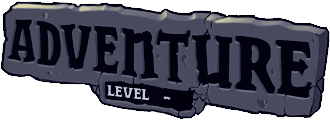
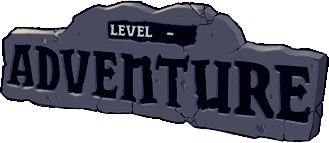
Reversed Forced 3D, Updated Adventure Button

diff --git a/Lawn/Widget/GameSelector.cpp b/Lawn/Widget/GameSelector.cpp
@@ -559,21 +559,6 @@ void GameSelector::Draw(Graphics* g)
 
 	}
 
-	int aLeftIdx = aSelectorReanim->FindTrackIndex("SelectorScreen_BG_Left");
-	ReanimatorTransform aTransformLeft;
-	aSelectorReanim->GetCurrentTransform(aLeftIdx, &aTransformLeft);
-	if (mHasTrophy)
-	{
-		if (mApp->EarnedGoldTrophy())
-			TodDrawImageCelF(g, Sexy::IMAGE_SUNFLOWER_TROPHY, aTransformLeft.mTransX + 10.0f, aTransformLeft.mTransY + 390.0f, 1, 0);
-		else
-			TodDrawImageCelF(g, Sexy::IMAGE_SUNFLOWER_TROPHY, aTransformLeft.mTransX + 10.0f, aTransformLeft.mTransY + 390.0f, 0, 0);
-		
-		TodParticleSystem* aTrophyParticle = mApp->ParticleTryToGet(mTrophyParticleID);
-		if (aTrophyParticle)
-			aTrophyParticle->Draw(g);
-	}
-
 	if(mDebugText)
 	{
 		Font* mDebugFont;
@@ -658,18 +643,35 @@ void GameSelector::DrawOverlay(Graphics* g)
 
 		g->SetColorizeImages(true);
 		g->SetColor(mAdventureButton->mColors[ButtonWidget::COLOR_BKG]);
-		TodDrawImageCelF(g, Sexy::IMAGE_SELECTORSCREEN_LEVELNUMBERS, aTransAreaX + 486.0f, aTransAreaY + 125.0f, aStage, 0);  // »æÖÆ´ó¹ØÊý
+		TodDrawImageCelF(g, Sexy::IMAGE_SELECTORSCREEN_LEVELNUMBERS, aTransAreaX + 486.0f, aTransAreaY + 47.0f, aStage, 0);  // »æÖÆ´ó¹ØÊý
 		if (aSub < 10)
 		{
-			TodDrawImageCelF(g, Sexy::IMAGE_SELECTORSCREEN_LEVELNUMBERS, aTransSubX + 504.0f, aTransSubY + 128.0f, aSub, 0);
+			TodDrawImageCelF(g, Sexy::IMAGE_SELECTORSCREEN_LEVELNUMBERS, aTransSubX + 509.0f, aTransSubY + 50.0f, aSub, 0);
 		}
 		else if (aSub == 10)
 		{
-			TodDrawImageCelF(g, Sexy::IMAGE_SELECTORSCREEN_LEVELNUMBERS, aTransSubX + 504.0f, aTransSubY + 128.0f, 1, 0);
-			TodDrawImageCelF(g, Sexy::IMAGE_SELECTORSCREEN_LEVELNUMBERS, aTransSubX + 513.0f, aTransSubY + 129.0f, 0, 0);
+			TodDrawImageCelF(g, Sexy::IMAGE_SELECTORSCREEN_LEVELNUMBERS, aTransSubX + 509.0f, aTransSubY + 50.0f, 1, 0);
+			TodDrawImageCelF(g, Sexy::IMAGE_SELECTORSCREEN_LEVELNUMBERS, aTransSubX + 518.0f, aTransSubY + 51.0f, 0, 0);
 		}
 		g->SetColorizeImages(false);
+
+
+		int aLeftIdx = aSelectorReanim->FindTrackIndex("SelectorScreen_BG_Left");
+		ReanimatorTransform aTransformLeft;
+		aSelectorReanim->GetCurrentTransform(aLeftIdx, &aTransformLeft);
+		if (mHasTrophy)
+		{
+			if (mApp->EarnedGoldTrophy())
+				TodDrawImageCelF(g, Sexy::IMAGE_SUNFLOWER_TROPHY, aTransformLeft.mTransX + 12.0f, aTransformLeft.mTransY + 345.0f, 1, 0);
+			else
+				TodDrawImageCelF(g, Sexy::IMAGE_SUNFLOWER_TROPHY, aTransformLeft.mTransX + 12.0f, aTransformLeft.mTransY + 345.0f, 0, 0);
+
+			TodParticleSystem* aTrophyParticle = mApp->ParticleTryToGet(mTrophyParticleID);
+			if (aTrophyParticle)
+				aTrophyParticle->Draw(g);
+		}
 	}
+
 
 	if (mZenGardenButton->mVisible && mApp->mZenGarden->PlantsNeedWater())
 	{

diff --git a/LawnApp.cpp b/LawnApp.cpp
@@ -1191,8 +1191,8 @@ bool LawnApp::KillNewOptionsDialog()
 		return false;
 
 	bool wantWindowed = !aNewOptionsDialog->mFullscreenCheckbox->IsChecked();
-	//bool want3D = aNewOptionsDialog->mHardwareAccelerationCheckbox->IsChecked();
-	SwitchScreenMode(wantWindowed, true, false);
+	bool want3D = aNewOptionsDialog->mHardwareAccelerationCheckbox->IsChecked();
+	SwitchScreenMode(wantWindowed, want3D, false);
 	ToggleDebugMode();
 
 	KillDialog(Dialogs::DIALOG_NEWOPTIONS);
@@ -3609,7 +3609,7 @@ void LawnApp::PlaySample(int theSoundNum)
 //0x4560E0
 void LawnApp::SwitchScreenMode(bool wantWindowed, bool is3d, bool force)
 {
-	SexyAppBase::SwitchScreenMode(wantWindowed, true, force);
+	SexyAppBase::SwitchScreenMode(wantWindowed, is3d, force);
 
 	NewOptionsDialog* aNewOptionsDialog = (NewOptionsDialog*)GetDialog(Dialogs::DIALOG_NEWOPTIONS);
 	if (aNewOptionsDialog)

diff --git a/Lawn/Widget/NewOptionsDialog.h b/Lawn/Widget/NewOptionsDialog.h
@@ -26,7 +26,7 @@ protected:
 		NewOptionsDialog_MusicVolume,
 		NewOptionsDialog_SoundVolume,
 		NewOptionsDialog_Fullscreen,
-		//NewOptionsDialog_HardwareAcceleration,
+		NewOptionsDialog_HardwareAcceleration,
 		NewOptionsDialog_DebugMode,
 		NewOptionsDialog_Advanced,
 		NewOptionsDialog_Speed,
@@ -37,7 +37,7 @@ public:
 	Sexy::Slider*			mMusicVolumeSlider;					//+0x15C
 	Sexy::Slider*			mSfxVolumeSlider;					//+0x160
 	Sexy::Checkbox*			mFullscreenCheckbox;				//+0x164
-	//Sexy::Checkbox*			mHardwareAccelerationCheckbox;		//+0x168
+	Sexy::Checkbox*			mHardwareAccelerationCheckbox;		//+0x168
 	Sexy::Checkbox*			mDebugModeBox;
 	LawnStoneButton*		mAlmanacButton;						//+0x16C
 	LawnStoneButton*		mBackToMainButton;					//+0x170

diff --git a/SexyAppFramework/DDInterface.cpp b/SexyAppFramework/DDInterface.cpp
@@ -217,7 +217,7 @@ bool DDInterface::Do3DTest(HWND theHWND)
 			mD3DTester->SetVidMemoryConstraints(mApp->mMinVidMemory3D, mApp->mRecommendedVidMemory3D);
 			mD3DTester->TestD3D(theHWND, mDD7);
 
-			if (mApp->mAutoEnable3D /* && mD3DTester->Is3DRecommended()*/) //force 3d
+			if (mApp->mAutoEnable3D && mD3DTester->Is3DRecommended())
 				mIs3D = true;
 
 			if (!mD3DTester->Is3DSupported())
